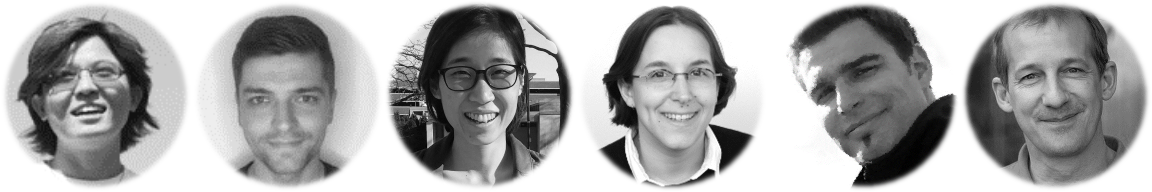
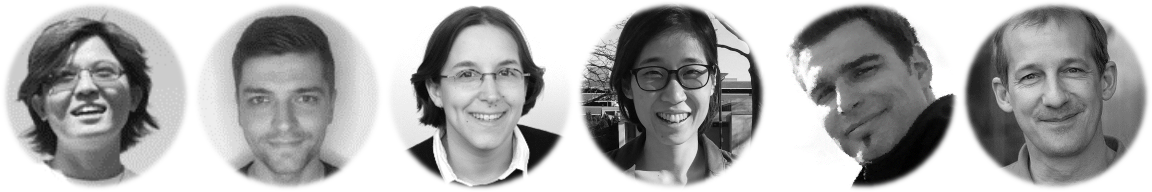
organizer order fix

Changed region(s): [[0.3125, 0.0, 0.6875, 1.0]]

diff --git a/about.md b/about.md
@@ -8,9 +8,9 @@ Researchers across several HCI-related communities have investigated various asp
 
 ## Workshop Organizers
 
-<img src="../assets/organizers.png" title="Workshop Organizers (Left to Right): Bongshin Lee, Matthew Brehmer, Eun Kyoung Choe, Petra Isenberg, Ricardo Langer, and Raimund Dachselt"  alt="Workshop Organizers (Left to Right): Bongshin Lee, Matthew Brehmer, Eun Kyoung Choe, Petra Isenberg, Ricardo Langer, and Raimund Dachselt" style="width: 100%;"/>
+<img src="../assets/organizers.png" title="Workshop Organizers (Left to Right): Bongshin Lee, Matthew Brehmer, Petra Isenberg, Eun Kyoung Choe, Ricardo Langer, and Raimund Dachselt"  alt="Workshop Organizers (Left to Right): Bongshin Lee, Matthew Brehmer, Petra Isenberg, Eun Kyoung Choe, Ricardo Langer, and Raimund Dachselt" style="width: 100%;"/>
 
-**(L to R)**: Bongshin Lee, Matthew Brehmer, Eun Kyoung Choe, Petra Isenberg, Ricardo Langner, and Raimund Dachselt.
+**(L to R)**: Bongshin Lee, Matthew Brehmer, Petra Isenberg, Eun Kyoung Choe, Ricardo Langner, and Raimund Dachselt.
 
 Our organization team is comprised of members having several relevant qualifications that will ensure a successful workshop. The core background of our team members range from visualization research (Brehmer, Isenberg, Lee) to HCI (Choe, Dachselt, Langner, Lee) to UbiComp (Choe). All team members have previously organized industry and academic workshops in several venues, and have extensive experience reviewing publications for international conferences, workshops, and symposia. Furthermore, all workshop organizers are committed, responsible, and highly motivated to organize this workshop.
 
@@ -19,9 +19,9 @@ Our organization team is comprised of members having several relevant qualificat
 <i class="fa fa-user" aria-hidden="true"></i> [Matthew Brehmer](https://www.microsoft.com/en-us/research/people/mabrehme/) ([@mattbrehmer](https://twitter.com/mattbrehmer)) is a Postdoctoral Researcher at Microsoft Research and a representative of the Microsoft Data Journalism Program. His research interests involve designing and evaluating information visualization techniques for storytelling and journalism, considering the perspectives of both the audience or information consumer and the author or content creator. He is the co-organizer of the [2018 IEEE PacificVis Visual Data Storytelling Contest](http://itolab.is.ocha.ac.jp/pvis2018/#Storytelling_Contest) and the Visualization in Practice event at [IEEE VIS 2018](http://ieeevis.org/year/2018/info/committees/conference-committee).
 He received his Ph.D. in Computer Science from the University of British Columbia in Vancouver in 2016.
 
-<i class="fa fa-user" aria-hidden="true"></i> [Eun Kyoung Choe](https://terpconnect.umd.edu/~choe/) ([@slowalpaca](https://twitter.com/slowalpaca)) is an Assistant Professor in the College of Information Studies at University of Maryland, College Park. She has been examining ways to help people become empowered individuals through fully leveraging their personal data. She has been exploring this topic in various contexts including the Quantified Self movement, sleep, patient-clinician communication, and personal data insights & visualization. She received her Ph.D. in Information Science from University of Washington in 2014.
-
 <i class="fa fa-user" aria-hidden="true"></i> [Petra Isenberg](https://petra.isenberg.cc/wiki/pmwiki.php) ([@dr_pi](https://twitter.com/dr_pi))  is a research scientist at Inria. Prior to joining Inria, Petra received her PhD from the University of Calgary in 2009. Her main research areas are information visualization and visual analytics with a focus on collaborative work scenarios, interaction, and evaluation. She is interested in exploring how people can most effectively analyze data sets on novel display technology such as small touch-screens, wall displays, or tabletops. 
+
+<i class="fa fa-user" aria-hidden="true"></i> [Eun Kyoung Choe](https://terpconnect.umd.edu/~choe/) ([@slowalpaca](https://twitter.com/slowalpaca)) is an Assistant Professor in the College of Information Studies at University of Maryland, College Park. She has been examining ways to help people become empowered individuals through fully leveraging their personal data. She has been exploring this topic in various contexts including the Quantified Self movement, sleep, patient-clinician communication, and personal data insights & visualization. She received her Ph.D. in Information Science from University of Washington in 2014.
 
 <i class="fa fa-user" aria-hidden="true"></i> [Ricardo Langner](https://imld.de/our-group/team/ricardo-langner/) ([@riclangner](https://twitter.com/riclangner)) is a Ph.D. student at the Technische Universität Dresden. His research focuses on the combination of multiple displays, such as mobile devices, interactive tabletops, and large shared displays, for information visualization. In particular, he explores new and innovative ways of using mobile devices to support data exploration with multiple coordinated visualization views.
 
